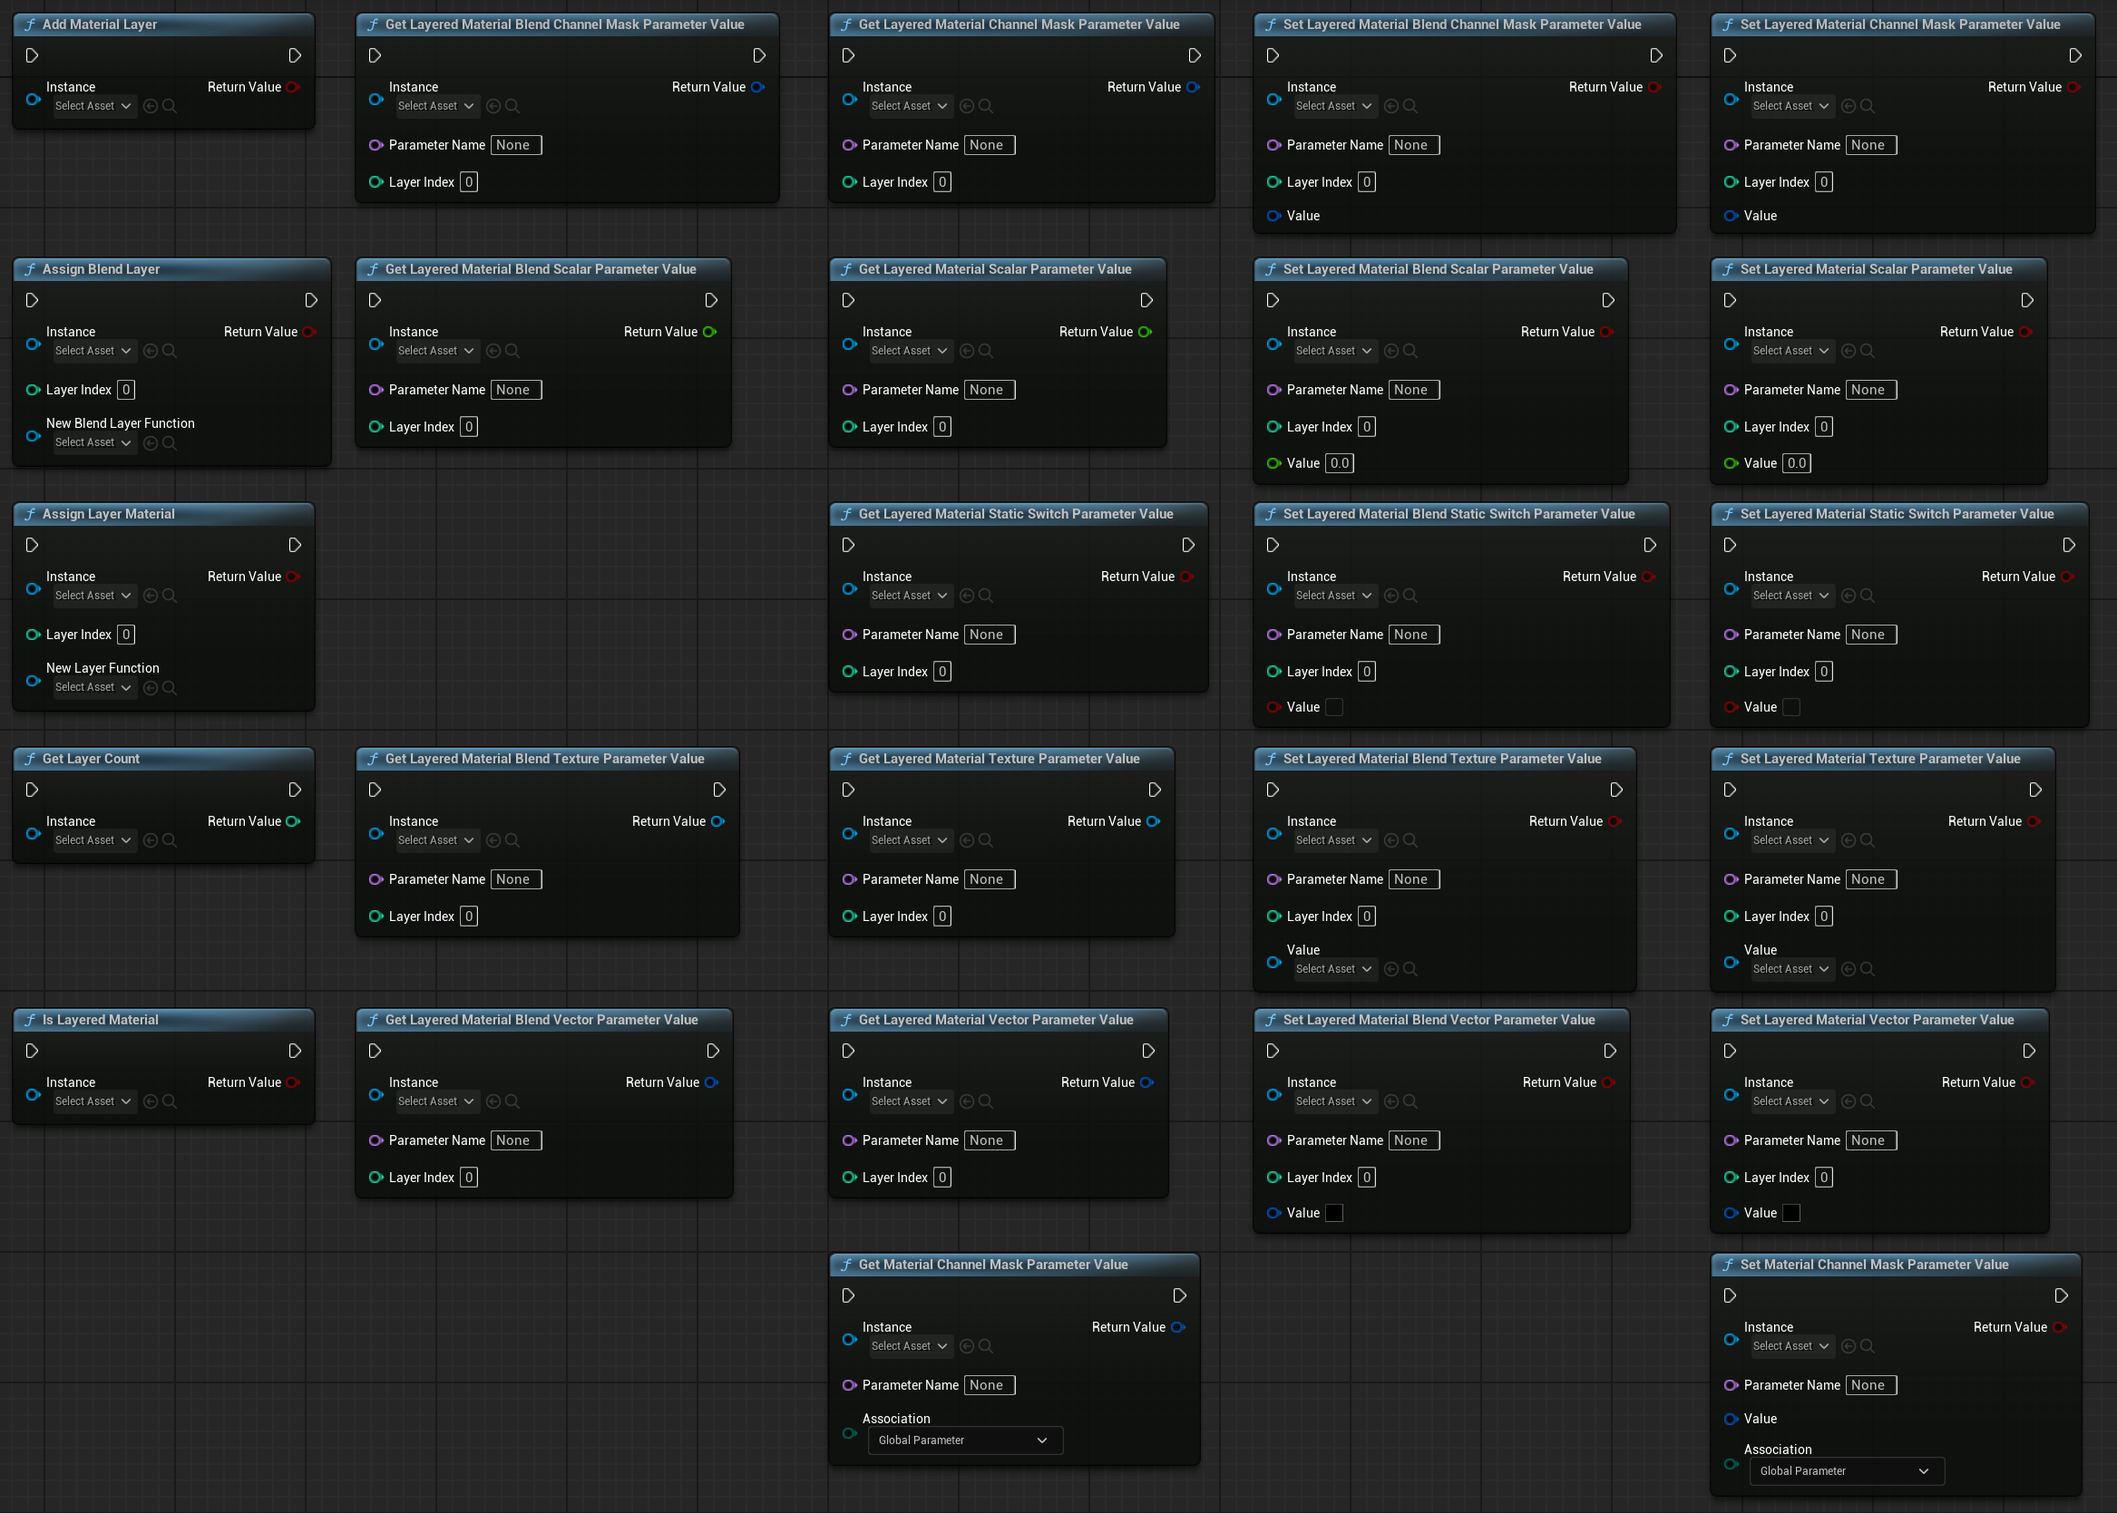
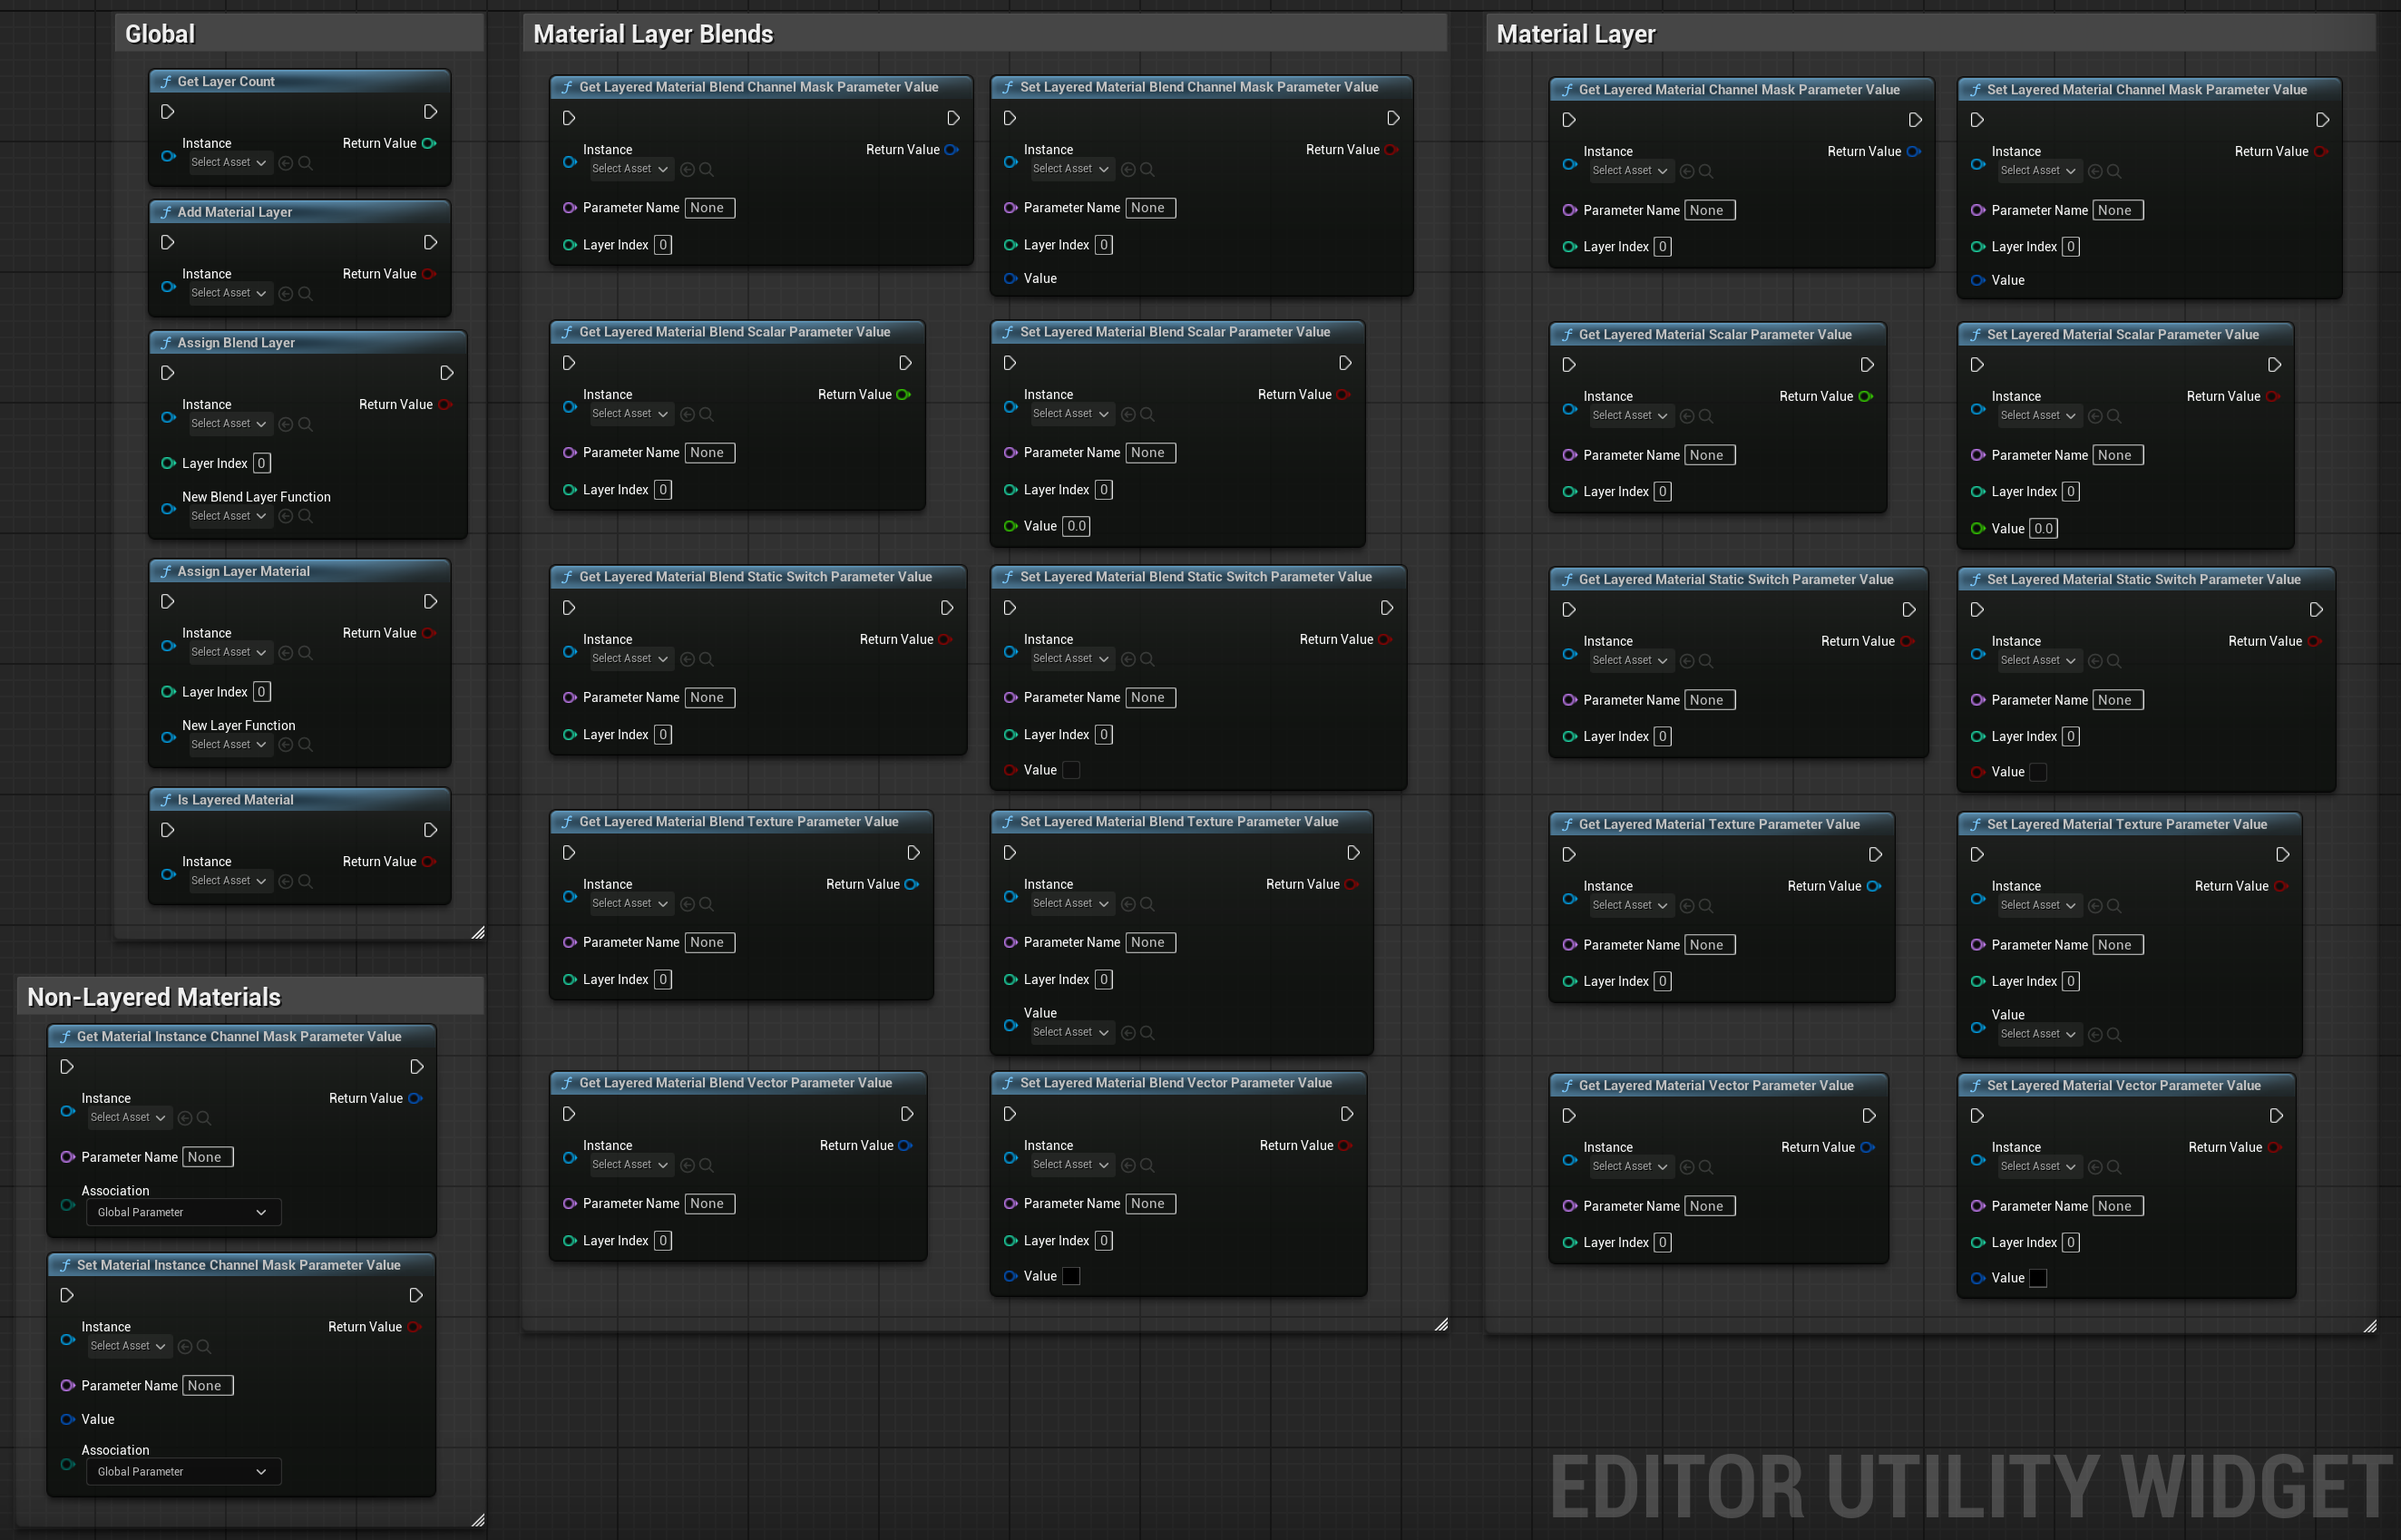
Updated doc images, added missing example files.

Changed region(s): [[0.0, 0.0, 1.0, 0.997], [0.0, 0.8724, 0.1851, 0.997]]

diff --git a/README.md b/README.md
@@ -21,7 +21,8 @@ Note: All versions of this plugin use the same source files.
 - [Installation](#installation)
 - [Usage](#usage)
   - [Python Library](#python-library)
-  - [Blueprint Usage](#blueprint-usage)
+  - [Blueprints](#blueprints)
+  - [Example Usage:](#example-usage)
 - [Simple(ish) Python Example](#simpleish-python-example)
 - [Prerequisites](#prerequisites)
 - [License](#license)
@@ -75,21 +76,21 @@ the plugin is added to your project, you can access it via:
 
 `from layered_material_library import LayeredMaterialLibrary`
 
-### Blueprint Usage
+### Blueprints
 
 The plugin provides the following Blueprint nodes for Editor Utility Widgets:
 
 ![Blueprint Nodes](docs/images/blueprint_nodes.png)
 
-Example usage:
-```blueprint
-// Basic layer manipulation example
-Get Material Instance
-IsLayeredMaterial -> Branch
--> True -> GetLayerCount
--> AddMaterialLayer
--> AssignLayerMaterial
-```
+### Example Usage:
+
+This example would check if a material is layered, if it is, add a new material layer, get the count, and assign
+a specific material layer asset to it.
+
+Note: These blueprint nodes are ONLY available in Editor Utility Widgets because they adjust elements in-editor,
+not in-game.
+
+![Blueprint Example](docs/images/blueprint_example.png)
 
 ## Simple(ish) Python Example
 

diff --git a/docs/index.md b/docs/index.md
@@ -21,7 +21,8 @@ Note: All versions of this plugin use the same source files.
 - [Installation](#installation)
 - [Usage](#usage)
   - [Python Library](#python-library)
-  - [Blueprint Usage](#blueprint-usage)
+  - [Blueprints](#blueprints)
+  - [Example Usage:](#example-usage)
 - [Simple(ish) Python Example](#simpleish-python-example)
 - [Prerequisites](#prerequisites)
 - [License](#license)
@@ -68,21 +69,21 @@ the plugin is added to your project, you can access it via:
 
 `from layered_material_library import LayeredMaterialLibrary`
 
-### Blueprint Usage
+### Blueprints
 
 The plugin provides the following Blueprint nodes for Editor Utility Widgets:
 
 ![Blueprint Nodes](images/blueprint_nodes.png)
 
-Example usage:
-```blueprint
-// Basic layer manipulation example
-Get Material Instance
-IsLayeredMaterial -> Branch
--> True -> GetLayerCount
--> AddMaterialLayer
--> AssignLayerMaterial
-```
+### Example Usage:
+
+This example would check if a material is layered, if it is, add a new material layer, get the count, and assign
+a specific material layer asset to it.
+
+Note: These blueprint nodes are ONLY available in Editor Utility Widgets because they adjust elements in-editor,
+not in-game.
+
+![Blueprint Example](images/blueprint_example.png)
 
 ## Simple(ish) Python Example
 
